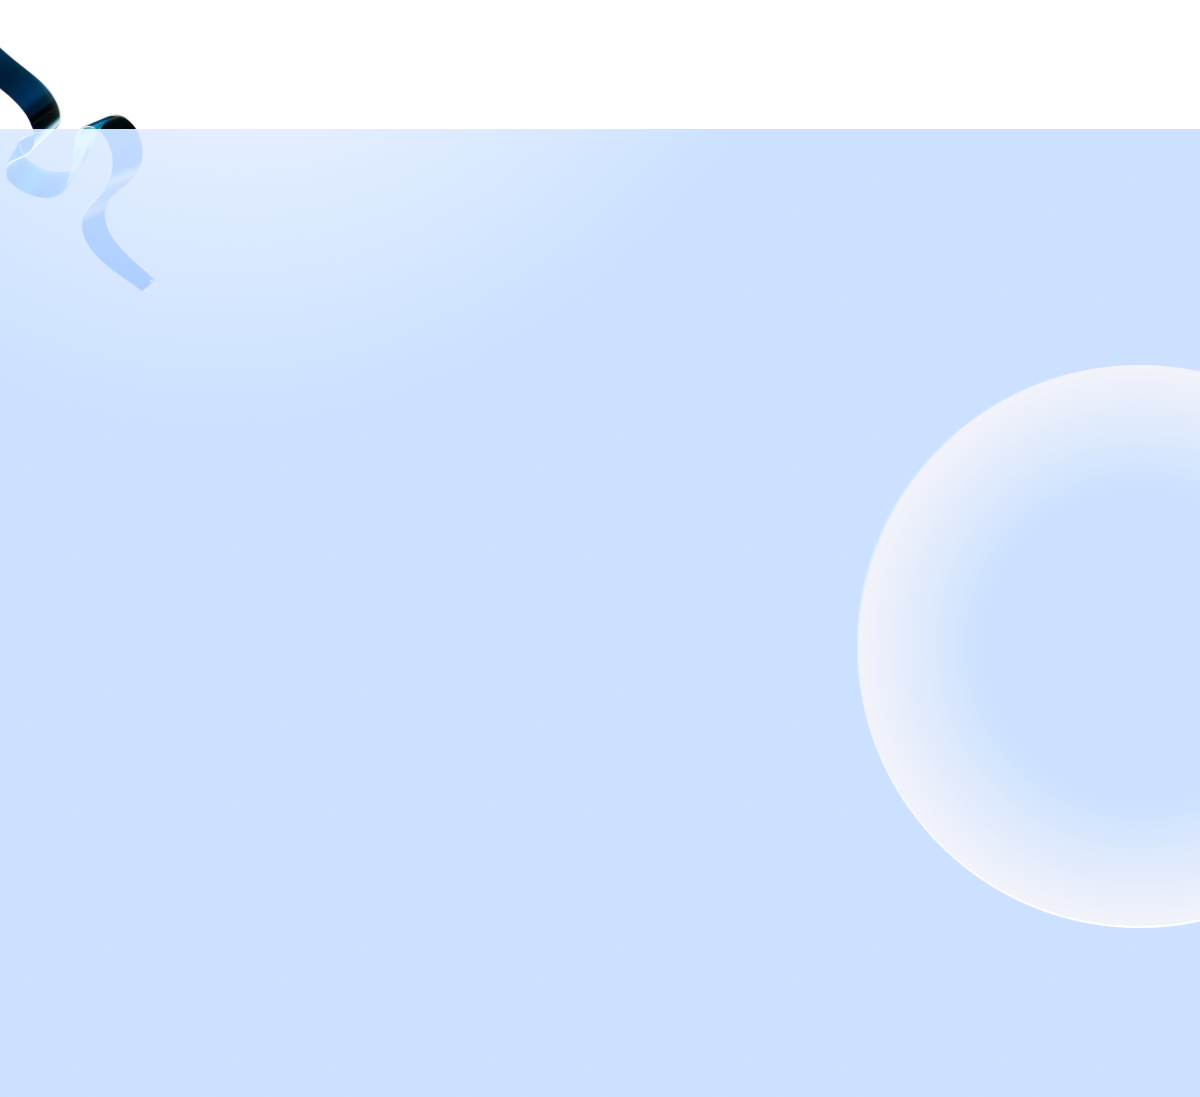
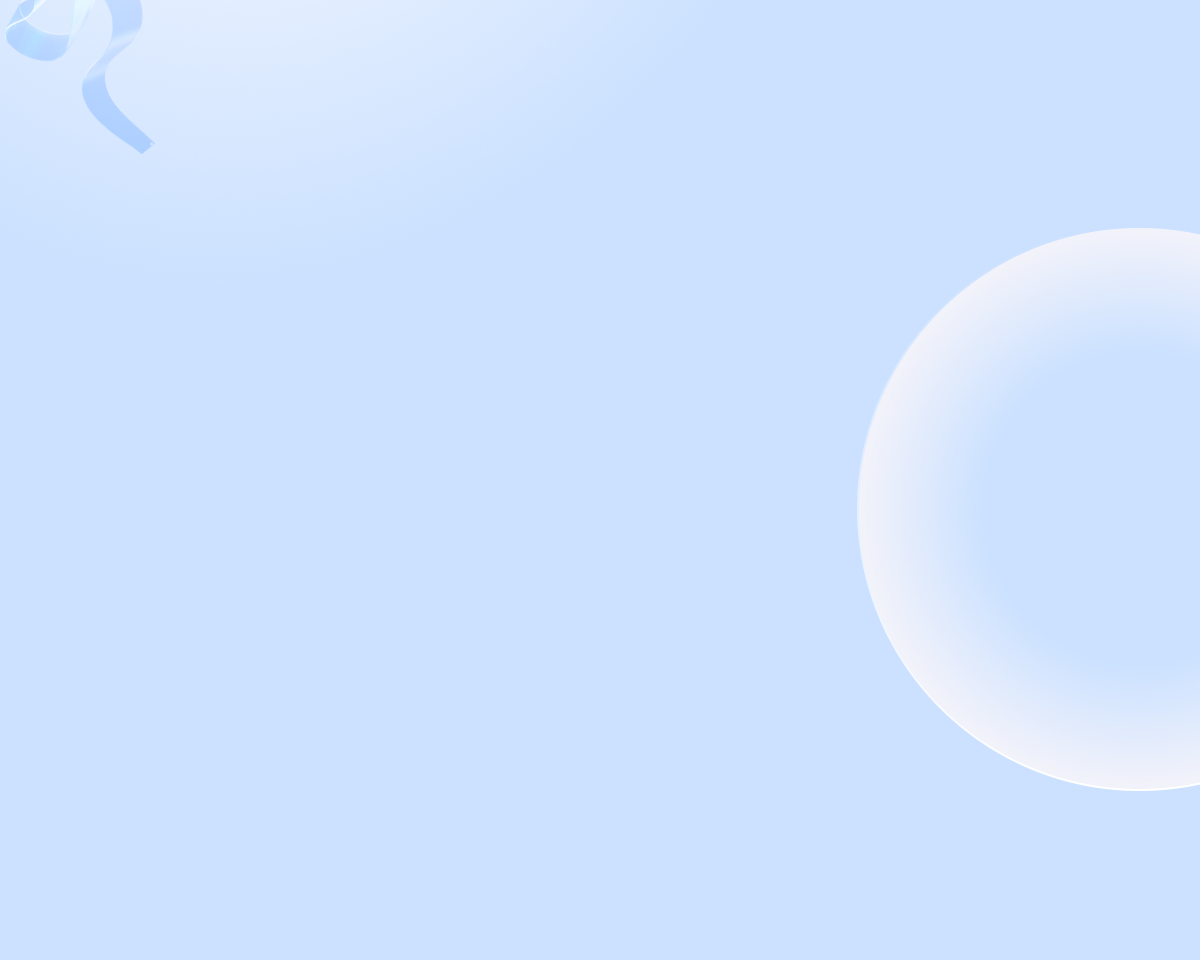
check krlo page

diff --git a/Frontend/src/pages/home/elements/Banner.jsx b/Frontend/src/pages/home/elements/Banner.jsx
@@ -12,7 +12,7 @@ const Banner = ({ BannerData, experienceData }) => {
 
   useGSAP(() => {
     const isLargeScreen = window.innerWidth >= 1024; // 1024px is Tailwind's `lg` breakpoint
-  
+
     gsap.to(".img", {
       scrollTrigger: {
         trigger: ".img",
@@ -21,8 +21,8 @@ const Banner = ({ BannerData, experienceData }) => {
         scrub: 2,
         markers: false,
       },
-      y: isLargeScreen ? 500 : 850,
-      x: isLargeScreen ? -900 : 0, // 👈 x only if large screen
+      y: isLargeScreen ? 580 : 850,
+      x: isLargeScreen ? -870 : 0, // 👈 x only if large screen
       width: isLargeScreen ? "300px" : "380px",
       ease: "power4.inOut",
     });
@@ -31,7 +31,7 @@ const Banner = ({ BannerData, experienceData }) => {
   return (
     <>
       <div
-        className="bg-cover w-full bg-no-repeat py-10 filter brightness-100 saturate-150"
+        className="bg-cover w-full bg-no-repeat pt-10 filter brightness-100 saturate-150"
         style={{ backgroundImage: `url('/assets/images/home/banne-bg.png')` }}
       >
         <div className="container mx-auto">
@@ -54,43 +54,55 @@ const Banner = ({ BannerData, experienceData }) => {
               />
             </div>
 
-            <img src={imgUrl} className="lg:right-36 top-[150px] lg:top-[180px] h-[500px] w-[500px] object-contain img fixed" alt="" />
+            <img
+              src={imgUrl}
+              className="lg:right-36 top-[150px] lg:top-[180px] h-[500px] w-[500px] object-contain img fixed"
+              alt=""
+            />
           </div>
+        </div>
+        <div
+          className="bg-cover bg-center bg-no-repeat min-h-[100vh] flex justify-center items-center"
+          style={{
+            backgroundImage: `url('/assets/images/home/bg-second.png')`,
+          }}
+        >
+          <div className="container mx-auto">
+            <div className="flex flex-wrap justify-start mt-[400px] lg:mt-0">
+              <div className="w-[100%] lg:w-[30%]"></div>
 
-          <div className="flex flex-wrap justify-start mt-[400px] lg:mt-0">
-            <div className="w-[100%] lg:w-[30%]"></div>
+              {experienceData.map((exp, index) => (
+                <div
+                  key={index}
+                  className="w-[100%] lg:w-[30%] m-2 rounded-2xl py-10 px-7 bg-cover shadow-2xl"
+                  style={{
+                    backgroundImage: `url('/assets/images/home/card-bg.png')`,
+                  }}
+                >
+                  <div className="h-full flex gap-2.5 justify-between">
+                    {/* Image on top */}
+                    <div className="h-full flex flex-col justify-end items-start">
+                      <img
+                        src={exp.vector}
+                        alt=""
+                        className="w-[100px] object-contain"
+                      />
+                    </div>
 
-            {experienceData.map((exp, index) => (
-              <div
-                key={index}
-                className="w-[100%] lg:w-[30%] m-2 rounded-2xl py-10 px-7 bg-cover shadow-2xl"
-                style={{
-                  backgroundImage: `url('/assets/images/home/card-bg.png')`,
-                }}
-              >
-                <div className="h-full flex gap-2.5 justify-between">
-                  {/* Image on top */}
-                  <div className="h-full flex flex-col justify-end items-start">
-                    <img
-                      src={exp.vector}
-                      alt=""
-                      className="w-[100px] object-contain"
-                    />
-                  </div>
+                    {/* Text below */}
+                    <div className="flex flex-col justify-between">
+                      <h1 className=" text-[var(--text-hover-color)] text-3xl font-bold rounded">
+                        {exp.head}
+                      </h1>
 
-                  {/* Text below */}
-                  <div className="flex flex-col justify-between">
-                    <h1 className=" text-[var(--text-hover-color)] text-3xl font-bold rounded">
-                      {exp.head}
-                    </h1>
-
-                    <p className="text-[var(--text-color)] text-[16px] font-[600]">
-                      {exp.pg}
-                    </p>
+                      <p className="text-[var(--text-color)] text-[16px] font-[600]">
+                        {exp.pg}
+                      </p>
+                    </div>
                   </div>
                 </div>
-              </div>
-            ))}
+              ))}
+            </div>
           </div>
         </div>
       </div>

diff --git a/Frontend/src/pages/home/elements/AboutSec.jsx b/Frontend/src/pages/home/elements/AboutSec.jsx
@@ -1,14 +1,49 @@
-import React from 'react'
+import React from "react";
+import NormalButton from "../../../components/NormalButton";
 
-const AboutSec = () => {
+const AboutSec = ({ AboutHeadingData, AboutContentData }) => {
+  const { heading, des } = AboutHeadingData;
+  const { smHeading, lgHeading, para, btnText, imgUrl } = AboutContentData;
   return (
-    <div className='bg-cover w-full bg-no-repeat about bg-amber-800' style={{backgroundImage: `url('/assets/images/home/about-bg.png')`}}>
-    <div className="container mx-auto h-[500px]">
-    
-    </div>
-</div>
+    <>
+      <div
+        className="bg-cover w-full bg-center bg-no-repeat about"
+        style={{ backgroundImage: `url('/assets/images/home/about-bg.png')` }}
+      >
+        <div className="container mx-auto">
+          <div className="flex flex-col lg:flex-row justify-center items-center ">
+            <div className="lg:h-[200px] h-[400px] w-full flex flex-col justify-center items-center gap-4">
+              <h1 className="text-5xl font-[700] text-center lg:text-left overflow-hidden text-[var(--text-hover-color)]">
+                {heading}
+              </h1>
+              <p className="lg:w-[40%] text-[var(--text-color)] text-center">
+                {des}
+              </p>
+            </div>
+          </div>
 
-  )
-}
+          <div className="flex flex-col md:flex-row lg:flex-row justify-between items-start lg:items-center">
+            {/* Content Section */}
+            <div className="w-full lg:w-[60%] flex justify-start lg:ml-[70px] order-2 md:order-1 lg:order-1 lg:min-h-[100vh]">
+              <div className="w-[90%] lg:w-[70%] p-4 flex flex-col justify-center items-start gap-6">
+                <h5 className="text-[var(--text-color)] font-[500]">
+                  {smHeading}
+                </h5>
+                <h1 className="text-[var(--text-hover-color)] text-3xl lg:text-4xl overflow-hidden">
+                  {lgHeading}
+                </h1>
+                <p className="text-[var(--text-color)]">{para}</p>
+                <NormalButton
+                  text={btnText}
+                  className="h-[45px] w-[50%] border border-[#CBE1FF] text-[var(--text-hover-color)] font-[600] bg-[var(--white-color)] shadow-2xl rounded-full"
+                />
+              </div>
+            </div>
+          </div>
+        </div>
+      </div>
+    </>
+  );
+};
 
-export default AboutSec
+export default AboutSec;

diff --git a/Frontend/src/components/Tabs.jsx b/Frontend/src/components/Tabs.jsx
@@ -1,0 +1,71 @@
+import { useState } from "react";
+
+const ProcessTabs = ({ tabs }) => {
+  const [activeTab, setActiveTab] = useState(0); // First tab open by default
+
+  const handleTabClick = (index) => {
+    setActiveTab(index); // Switch to the clicked tab
+  };
+
+  return (
+    <div className="w-full">
+      <div className="w-full mx-auto px-4">
+
+        {/* Progress indicators */}
+        <div className="flex justify-between mb-8">
+          {tabs.map((_, index) => (
+            <div key={index} className="flex-1">
+              <div
+                className={`h-1 ${
+                  index === activeTab ? "bg-slate-800" : "bg-slate-400"
+                } ${index < tabs.length - 1 ? "mr-4" : ""}`}
+              />
+            </div>
+          ))}
+        </div>
+
+        {/* Tabs: Responsive row/column layout */}
+        <div className="flex flex-col lg:flex-row w-full justify-center items-center lg:items-start gap-4">
+          {tabs.map((tab, index) => (
+            <div
+              key={index}
+              className={`cursor-pointer w-full sm:w-[80%] lg:flex-1 p-4 rounded-md ${
+                activeTab === index ? "" : ""
+              }`}
+              onClick={() => handleTabClick(index)}
+            >
+              {/* Tab number */}
+              <div
+                className={`text-xl font-bold mb-2 text-center lg:text-left ${
+                  index === activeTab ? "text-slate-800" : "text-slate-600"
+                }`}
+              >
+                {tab.number}
+              </div>
+
+              {/* Tab heading */}
+              <h3
+                className={`text-[16px] font-semibold mb-4 text-center lg:text-left ${
+                  index === activeTab ? "text-slate-800" : "text-slate-600"
+                } hover:text-slate-800 transition-colors`}
+              >
+                {tab.title}
+              </h3>
+
+              {/* Tab description - only if active */}
+              {activeTab === index && (
+                <div className="mt-4 p-4 rounded-lg shadow-sm text-center lg:text-left">
+                  <p className="text-slate-600 text-sm leading-relaxed">
+                    {tab.description}
+                  </p>
+                </div>
+              )}
+            </div>
+          ))}
+        </div>
+      </div>
+    </div>
+  );
+};
+
+export default ProcessTabs;

diff --git a/Frontend/src/assets/ConstantData.jsx b/Frontend/src/assets/ConstantData.jsx
@@ -63,3 +63,53 @@ export const experienceData = [
         pg: "Explore how we built AI tools for law firms, scaled e-commerce backends, empowered education platforms, and rescued critical IT projects."
     }
 ]
+
+export const AboutHeadingData = {
+    heading: "We Test Before You Rest",
+    des: "Rigorous testing and QA mean your product launches without surprises. We break it so your users don’t."
+}
+
+export const AboutContentData = {
+    smHeading: "About Us",
+    lgHeading: "Driven by Innovation. Defined by Delivery.",
+    para: "ZMA is a modern IT company based in Pakistan with a European mindset. We build scalable, secure, and innovative tech solutions with a strong focus on Artificial Intelligence and Full Project Delivery.",
+    btnText: "Learn More",
+    imgUrl: "/assets/images/home/bubble.png"
+}
+
+export const SeviceContent = {
+    lgHeading: "How Our Tech Brings Ideas to Life.",
+    smHeading: "See How We Build Success",
+    description: "From concept to launch, we combine intelligent design, advanced development, and dedicated teams to transform your vision into powerful, scalable digital solutions that drive real impact.",
+    btnText: "Learn More",
+    imgUrl: "/assets/images/home/service-img.png"
+}
+
+export const tabs = [
+    {
+      number: "01",
+      title: "We Understand Your Vision",
+      description:
+        "Every great product starts with understanding your goals, your users, your market. We listen first, then plan.",
+    },
+    {
+      number: "02",
+      title: "We Design Smart Solutions",
+      description: "Every great product starts with understanding your goals, your users, your market. We listen first, then plan.",
+    },
+    {
+      number: "03",
+      title: "We Build Scalable Systems",
+      description: "Every great product starts with understanding your goals, your users, your market. We listen first, then plan.",
+    },
+    {
+      number: "04",
+      title: "We Deploy Expert Teams",
+      description: "Every great product starts with understanding your goals, your users, your market. We listen first, then plan.",
+    },
+    {
+      number: "05",
+      title: "We Deliver with Precision",
+      description: "Every great product starts with understanding your goals, your users, your market. We listen first, then plan.",
+    },
+  ]

diff --git a/Frontend/src/pages/home/elements/ServiceSec.jsx b/Frontend/src/pages/home/elements/ServiceSec.jsx
@@ -1,0 +1,49 @@
+import React from "react";
+import NormalButton from "../../../components/NormalButton";
+import ProcessTabs from "../../../components/Tabs";
+import { tabs } from "../../../assets/ConstantData";
+
+const ServiceSec = ({SeviceContent}) => {
+    const {lgHeading, smHeading, description, btnText, imgUrl} = SeviceContent;
+  return (
+    <>
+      <div className="lg:h-[900px] mt-[100px]">
+        <img
+          src="/assets/images/home/mobileBanner.png"
+          className="h-[100%] w-[100%] object-fill"
+          alt=""
+        />
+      </div>
+
+      <div
+        className="min-h-[800px] bg-cover bg-no-repeat py-[70px]  mt-10"
+        style={{ backgroundImage: `url('/assets/images/home/service-bg.png')` }}
+      >
+        <div className="container mx-auto lg:min-h-[700px]">
+          <div className="h-full flex flex-col lg:flex-row justify-between items-center p-3">
+            <div className="w-[100%] lg:w-[50%] flex flex-col justify-center items-start gap-7">
+                <h1 className="text-4xl w-[100%] lg:w-[70%] overflow-hidden font-[600] leading-12">{lgHeading}</h1>
+                <h2 className="text-xl text-[var(--text-color)] font-[500]">{smHeading}</h2>
+                <p className="w-[100%] lg:w-[70%] text-[var(--text-color)]">{description}</p>
+                <NormalButton
+                  text={btnText}
+                  className="h-[45px] w-[60%] lg:w-[30%] border border-[#CBE1FF] text-[var(--text-hover-color)] font-[600] bg-[var(--white-color)] shadow-2xl rounded-full"
+                />
+            </div>
+
+            <div className="w-[100%] lg:w-[50%] my-7 lg:my-0">
+                <img src={imgUrl} className="h-[100%] w-[100%] object-contain" alt="" />
+            </div>
+          </div>
+
+
+          <div className="my-[100px]">
+            <ProcessTabs tabs={tabs} />
+          </div>
+        </div>
+      </div>
+    </>
+  );
+};
+
+export default ServiceSec;

diff --git a/Frontend/src/pages/home/Home.jsx b/Frontend/src/pages/home/Home.jsx
@@ -1,13 +1,15 @@
 import React from 'react'
-import { BannerData, experienceData } from '../../assets/ConstantData'
+import { AboutContentData, AboutHeadingData, BannerData, experienceData, SeviceContent } from '../../assets/ConstantData'
 import Banner from './elements/Banner'
 import AboutSec from './elements/AboutSec'
+import ServiceSec from './elements/ServiceSec'
 
 const Home = () => {
   return (
     <>
      <Banner BannerData={BannerData} experienceData={experienceData} /> 
-     <AboutSec />
+     <AboutSec AboutHeadingData={AboutHeadingData} AboutContentData={AboutContentData} />
+     <ServiceSec SeviceContent={SeviceContent} />
     </>
   )
 }
